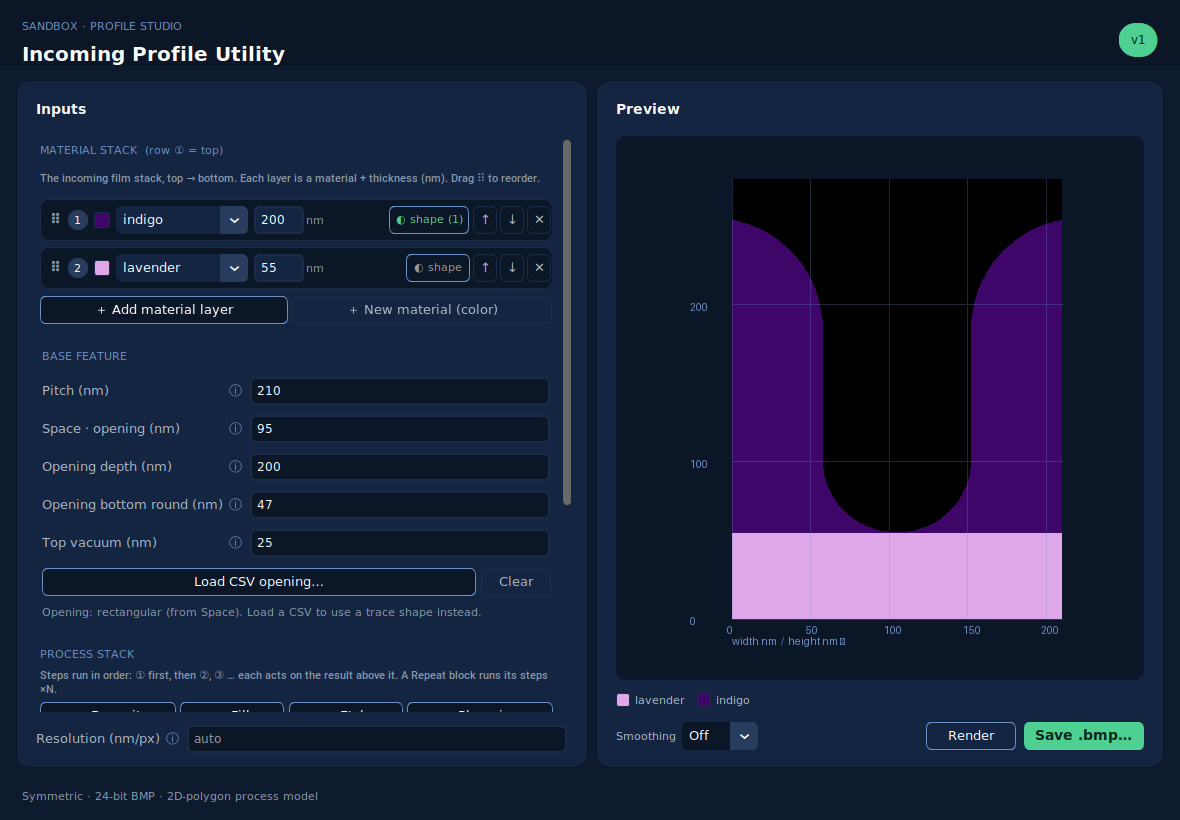
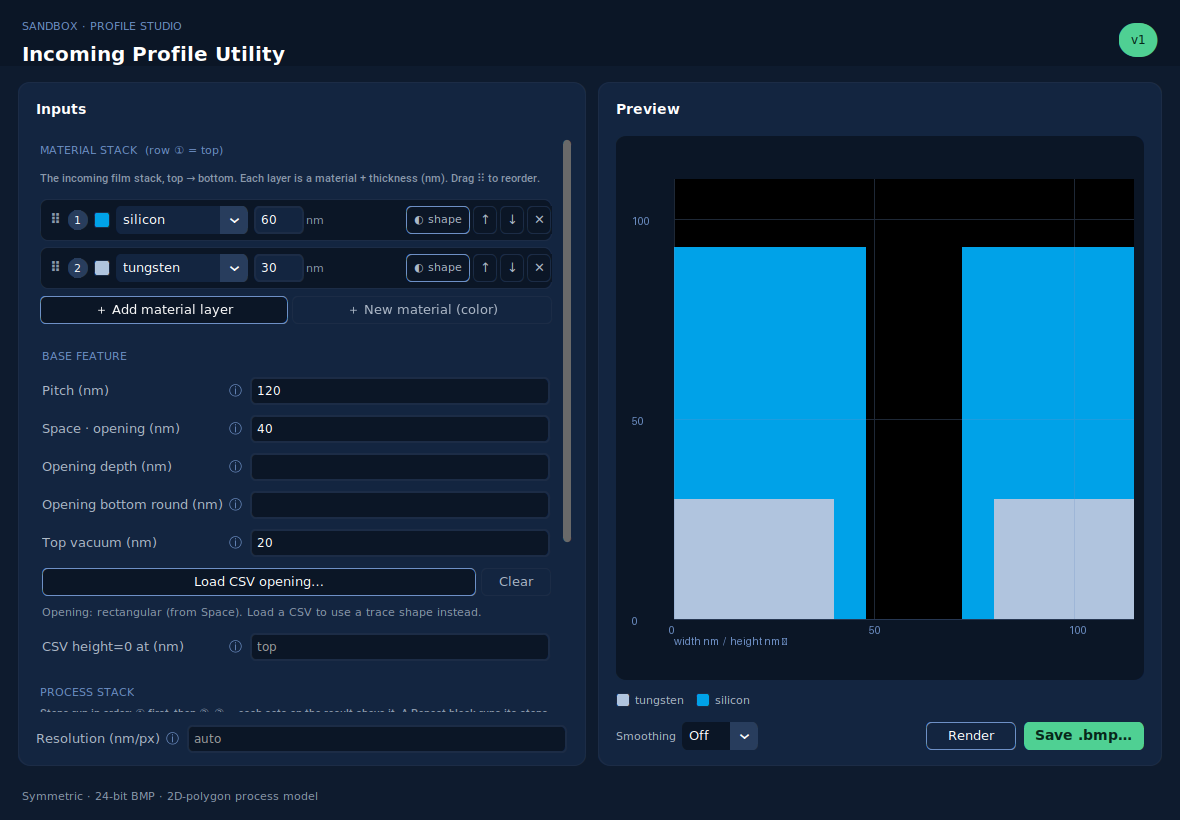
Op materials from stack; isotropic etch rounded; CSV reference line
- Process-op material dropdowns list only materials in the material stack (etch also
  offers (any)); they refresh when layers/materials change. Falls back to full palette
  when the stack is empty (so blank+deposit still works).
- Isotropic etch now expands uniformly with round joins (was a vertical sweep + mitre
  buffer -> rectangular). Partial anisotropy keeps a rounded undercut.
- CSV opening reference: 'CSV height=0 at (nm)' places the trace's height=0 at a chosen
  line from the stack bottom (negative heights sit below it); blank = top-align. CSV is
  loaded with raw (un-normalized) heights so the reference is literal.
- 21 tests pass.

diff --git a/src/incoming_profile_utility/gui.py b/src/incoming_profile_utility/gui.py
@@ -132,7 +132,7 @@ class MaterialLayerRow:
         self.shape_btn.configure(text=f"◐ shape ({len(self.shape)})" if self.shape else "◐ shape",
                                  text_color=(GREEN if self.shape else SOFT))
     def _on_mat(self,_v):
-        self.sw.configure(fg_color=self.app.palette.hex(self.mat.get())); self.app.render_preview()
+        self.sw.configure(fg_color=self.app.palette.hex(self.mat.get())); self.app._refresh_op_materials(); self.app.render_preview()
     def to_layer(self):
         try: t=float(self.th.get())
         except ValueError: t=0.0
@@ -167,7 +167,7 @@ class OpRow:
         self._sync()
     def _on_type(self,_v): self._sync(); self.host.app._schedule_render()
     def _sync(self):
-        lbl=self.optype.get(); names=self.host.app.palette.names()
+        lbl=self.optype.get(); names=self.host.app._op_material_choices()
         if lbl in ("Etch · isotropic","Etch · anisotropic"):
             vals=["(any)"]+names; self.mat.configure(state="normal", values=vals)
             if self.mat.get() not in vals: self.mat.set("(any)")
@@ -319,6 +319,11 @@ class ProfileStudio(ctk.CTk):
         self.csv_label=ctk.CTkLabel(bs,text="Opening: rectangular (from Space). Load a CSV to use a trace shape instead.",
                                     font=self.eb,text_color=MUT,wraplength=520,justify="left")
         self.csv_label.grid(row=len(FIELDS)+2,column=0,columnspan=3,sticky="w",padx=8,pady=(2,2))
+        self.csv_ref_entry=ctk.CTkEntry(bs,font=self.mono,fg_color=NAVY_900,border_color=NAVY_700,text_color=ON,width=120,placeholder_text="top")
+        self.csv_ref_entry.bind("<KeyRelease>",self._schedule_render)
+        self._row(bs,len(FIELDS)+3,"CSV height=0 at (nm)",
+                  "Where the CSV's height=0 line sits, measured in nm from the stack bottom. Blank = top-align (trace top at the stack top). Points with negative height sit below this line.",
+                  self.csv_ref_entry)
 
         ps=ctk.CTkFrame(self.param_page,fg_color="transparent"); ps.pack(fill="x",pady=(8,8))
         ctk.CTkLabel(ps,text="PROCESS STACK",font=self.eb,text_color=BLUE_L).pack(anchor="w",padx=6)
@@ -370,11 +375,26 @@ class ProfileStudio(ctk.CTk):
         i=self.matlayer_rows.index(row); j=i+delta
         if 0<=j<len(self.matlayer_rows):
             self._capture(); self.matlayer_rows[i],self.matlayer_rows[j]=self.matlayer_rows[j],self.matlayer_rows[i]; self._relayout_matstack(); self.render_preview()
+    def _op_material_choices(self):
+        mats=[]
+        for r in self.matlayer_rows:
+            m=r.mat.get()
+            if m and m not in mats: mats.append(m)
+        return mats or self.palette.names()     # fall back to palette when stack is empty
+
+    def _refresh_op_materials(self):
+        def walk(lst):
+            for r in lst.rows:
+                if isinstance(r,OpRow): r._sync()
+                elif isinstance(r,RepeatRow): walk(r.sub)
+        if hasattr(self,"stack"): walk(self.stack)
+
     def _relayout_matstack(self):
         for n,row in enumerate(self.matlayer_rows,1):
             row.frame.pack_forget(); row.frame.pack(fill="x",padx=6,pady=3); row.badge_lbl.configure(text=str(n))
         self.matstack_hint.pack_forget()
         if not self.matlayer_rows: self.matstack_hint.pack(anchor="w",padx=6)
+        self._refresh_op_materials()
     def _drag_start(self,row): self._drag=row
     def _drag_drop(self,row):
         if self._drag is None: return
@@ -392,7 +412,8 @@ class ProfileStudio(ctk.CTk):
                     ops=self.stack.to_ops(),
                     fields={k:self.entries[k].get() for k in self.entries},
                     scale=self.scale_entry.get(),
-                    trace=self.opening_trace)
+                    trace=self.opening_trace,
+                    csv_ref=self.csv_ref_entry.get())
     def _capture(self):
         if self._loading: return
         self._undo.append(self._snapshot())
@@ -423,6 +444,7 @@ class ProfileStudio(ctk.CTk):
             for k,v in snap["fields"].items():
                 if k in self.entries: self.entries[k].delete(0,"end"); self.entries[k].insert(0,v)
             self.scale_entry.delete(0,"end"); self.scale_entry.insert(0,snap["scale"])
+            self.csv_ref_entry.delete(0,"end"); self.csv_ref_entry.insert(0,snap.get("csv_ref",""))
             self.opening_trace=snap.get("trace")
             self.csv_label.configure(
                 text=(f"✓ CSV opening loaded ({len(self.opening_trace)} pts)." if self.opening_trace
@@ -434,14 +456,9 @@ class ProfileStudio(ctk.CTk):
 
     def _update_menus(self):
         names=self.palette.names()
-        def orows(lst):
-            out=[]
-            for r in lst.rows:
-                if isinstance(r,OpRow): out.append(r.mat)
-                elif isinstance(r,RepeatRow): out+=orows(r.sub)
-            return out
-        for om in self.material_menus+orows(self.stack)+[r.mat for r in self.matlayer_rows]:
+        for om in self.material_menus+[r.mat for r in self.matlayer_rows]:
             cur=om.get(); om.configure(values=names); om.set(cur)
+        self._refresh_op_materials()
 
     def _edit_shape(self, row):
         dlg=ctk.CTkToplevel(self); dlg.title("Top-corner shape"); dlg.geometry("440x380"); dlg.configure(fg_color=NAVY_800); dlg.transient(self)
@@ -526,7 +543,7 @@ class ProfileStudio(ctk.CTk):
         path=filedialog.askopenfilename(parent=self, filetypes=[("CSV","*.csv")])
         if not path: return
         try:
-            df=load_trace(path)
+            df=load_trace(path, normalize=False)
         except Exception as exc:
             self.csv_label.configure(text=f"⚠ {exc}", text_color="#E58B8B"); return
         self._capture()
@@ -551,8 +568,17 @@ class ProfileStudio(ctk.CTk):
                 try: p[k]=float(v)
                 except ValueError: pass
         p["material_layers"]=[r.to_layer() for r in self.matlayer_rows]
-        if self.opening_trace: p["opening_trace"]=self.opening_trace
+        if self.opening_trace:
+            p["opening_trace"]=self.opening_trace
+            ref=self._csv_ref()
+            if ref is not None: p["opening_ref"]=ref
         return p
+
+    def _csv_ref(self):
+        v=self.csv_ref_entry.get().strip()
+        if not v: return None
+        try: return float(v)
+        except ValueError: return None
 
     def _scale(self):
         v=self.scale_entry.get().strip()
@@ -592,6 +618,7 @@ class ProfileStudio(ctk.CTk):
         for r in list(self.matlayer_rows): r.frame.destroy()
         self.matlayer_rows=[]; self._relayout_matstack()
         self.opening_trace=None
+        self.csv_ref_entry.delete(0,"end")
         self.csv_label.configure(text="Opening: rectangular (from Space). Load a CSV to use a trace shape instead.", text_color=MUT)
         for k,label,default,info in FIELDS:
             self.entries[k].delete(0,"end"); self.entries[k].insert(0,default)

diff --git a/src/incoming_profile_utility/process.py b/src/incoming_profile_utility/process.py
@@ -93,14 +93,21 @@ def mask_polygon(width, height, base_y, corner="square", facet_angle=45.0, radiu
 #   trench    : inverted default — vacuum trench carved into surround + mask
 #   line      : a solid feature (CD curve) standing in vacuum + mask
 # --------------------------------------------------------------------------- #
-def _trace_opening(trace, total_h):
-    """Build a symmetric opening polygon from a width/height trace, positioned so the
-    trace's top sits at the top of the material stack (opening cut from the top down)."""
+def _trace_opening(trace, total_h, ref=None):
+    """Symmetric opening polygon from a width/height trace.
+
+    ref is None -> top-align (trace's top at the stack top). Otherwise ref is the
+    y-height (from the stack bottom) where the trace's height=0 is placed, and the
+    trace extends up/down from there (its own height values, so negative heights sit
+    below the reference).
+    """
     pts = sorted(((float(w), float(h)) for w, h in trace), key=lambda t: t[1])
     if not pts:
         return None
-    hmax = max(h for _, h in pts)
-    off = total_h - hmax                      # align trace top with stack top
+    if ref is None:
+        off = total_h - max(h for _, h in pts)     # top-align
+    else:
+        off = float(ref)                           # height=0 -> ref line
     right = [(w / 2.0, h + off) for w, h in pts]
     left = [(-w / 2.0, h + off) for w, h in pts][::-1]
     poly = Polygon(right + left)
@@ -169,7 +176,7 @@ def _build_material_stack(p: dict) -> State:
     trace = p.get("opening_trace")
     open_bottom = 0.0
     if trace:
-        opening = _trace_opening(trace, total)
+        opening = _trace_opening(trace, total, p.get("opening_ref"))
     else:
         depth = p.get("opening_depth")
         open_bottom = 0.0 if (depth is None or depth <= 0 or depth >= total) else (total - depth)
@@ -302,10 +309,14 @@ def etch(state: State, depth: float, anisotropy: float = 1.0,
     if mode == "isotropic": anisotropy = 0.0
     elif mode == "anisotropic": anisotropy = 1.0
     a = min(max(float(anisotropy), 0.0), 1.0)
-    lateral = depth * (1.0 - a)
-    removal = _extrude_down(state.open(), depth)
-    if lateral > 1e-9:
-        removal = removal.buffer(lateral, join_style=2)
+    op = state.open()
+    if a <= 1e-6:
+        removal = op.buffer(depth, join_style=1)              # isotropic: equal in all directions, rounded
+    else:
+        removal = _extrude_down(op, depth)                    # vertical component
+        lateral = depth * (1.0 - a)
+        if lateral > 1e-9:
+            removal = removal.buffer(lateral, join_style=1)   # rounded lateral undercut
     removal = removal.intersection(state.solid())
     tgt = None if material in (None, "", "(any)") else material
     new = []

diff --git a/src/incoming_profile_utility/io_csv.py b/src/incoming_profile_utility/io_csv.py
@@ -11,7 +11,7 @@ from pathlib import Path
 import pandas as pd
 
 
-def load_trace(path: str | Path) -> pd.DataFrame:
+def load_trace(path: str | Path, normalize: bool = True) -> pd.DataFrame:
     """Load a width/height trace CSV into a validated DataFrame (columns: width, height)."""
     csv = pd.read_csv(path, float_precision="round_trip")
     wcol = [c for c in csv.columns if c.lower() == "width"]
@@ -29,7 +29,7 @@ def load_trace(path: str | Path) -> pd.DataFrame:
         raise ValueError("Width must be non-negative — it is the full CD (a size, "
                          "spanning ±width/2 about the centerline), not an x-coordinate.")
     hmin = float(df["height"].min())
-    if hmin < 0:
+    if normalize and hmin < 0:
         df["height"] = df["height"] - hmin   # height is a position; shift so the base = 0
     return df
 
